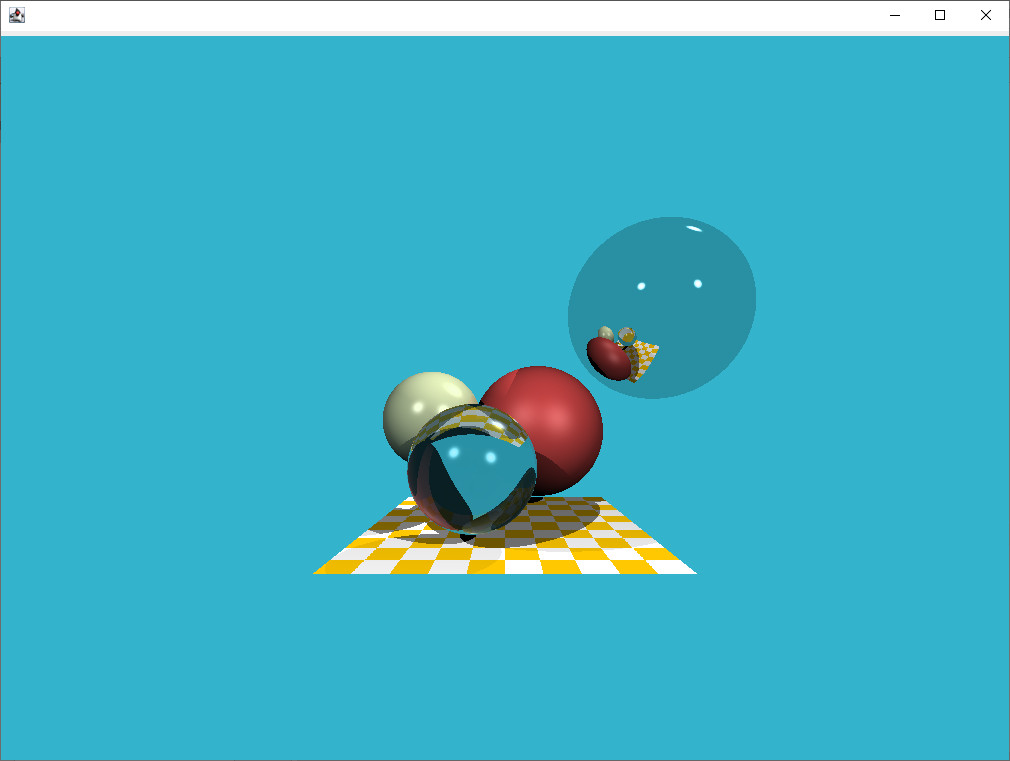
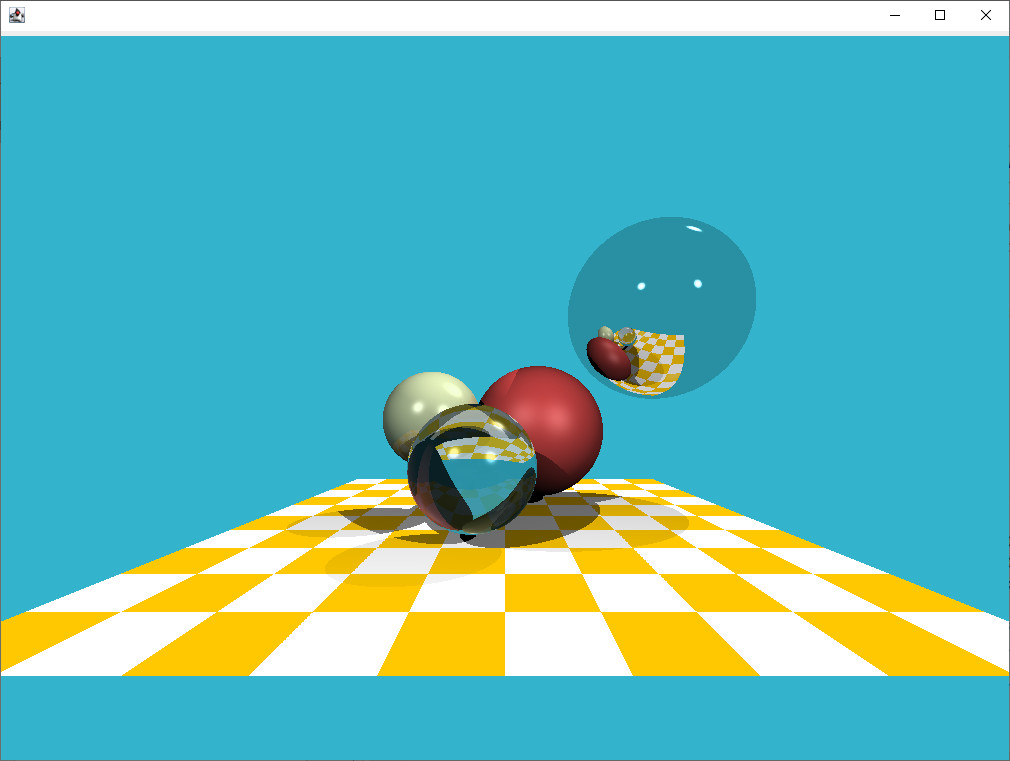
Give the balls a more comfortable floor generously

Changed region(s): [[0.0, 0.5138, 1.0, 0.9067], [0.5832, 0.4231, 0.6752, 0.5138]]

diff --git a/src/main/java/personal/william/raytracer/RayTracer.java b/src/main/java/personal/william/raytracer/RayTracer.java
@@ -27,14 +27,14 @@ public class RayTracer {
         Material solidOrange = new Material(0.4, 0.6, Color.ORANGE, 0, 80, 1, 0);
 
         Material[][] alternatingGrid = new Material[][]{{solidWhite, solidOrange}, {solidOrange, solidWhite}};
-        GridPatternParallelogramPlane.Pattern pattern = new GridPatternParallelogramPlane.Pattern(1, 1, alternatingGrid);
-        GridPatternParallelogramPlane floor = new GridPatternParallelogramPlane(10, 10, pattern);
+        GridPatternParallelogramPlane.Pattern pattern = new GridPatternParallelogramPlane.Pattern(2, 2, alternatingGrid);
+        GridPatternParallelogramPlane floor = new GridPatternParallelogramPlane(20, 20, pattern);
 
         Vector3dSpaceScene scene = new Scene3d();
 
         scene.setBackgroundColor(bgColor);
 
-        Vector3d planeOrig = Vector3d.of(-5, -4, -20);
+        Vector3d planeOrig = Vector3d.of(-10, -4, -26);
         ParallelogramPlanePositioning planePos =
                 new ParallelogramPlanePositioning(planeOrig, UnitVector3d.X, UnitVector3d.Z);
 
